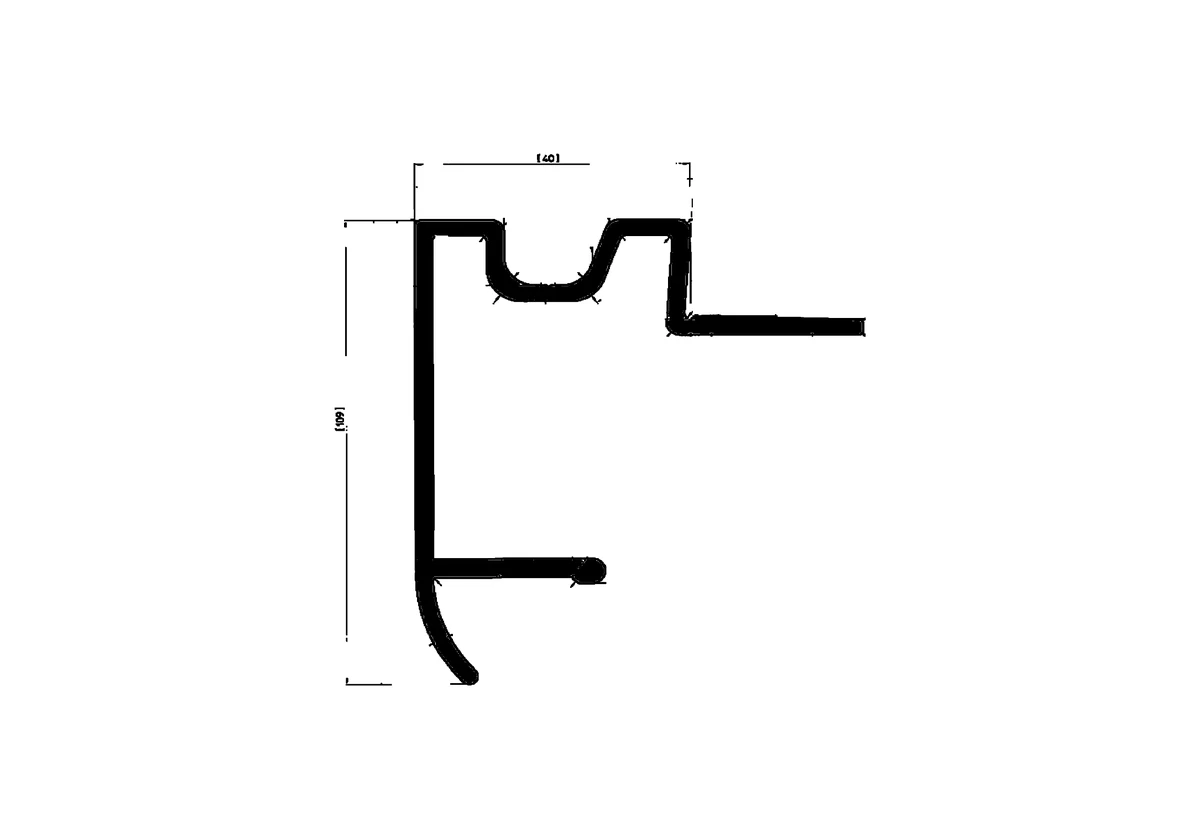
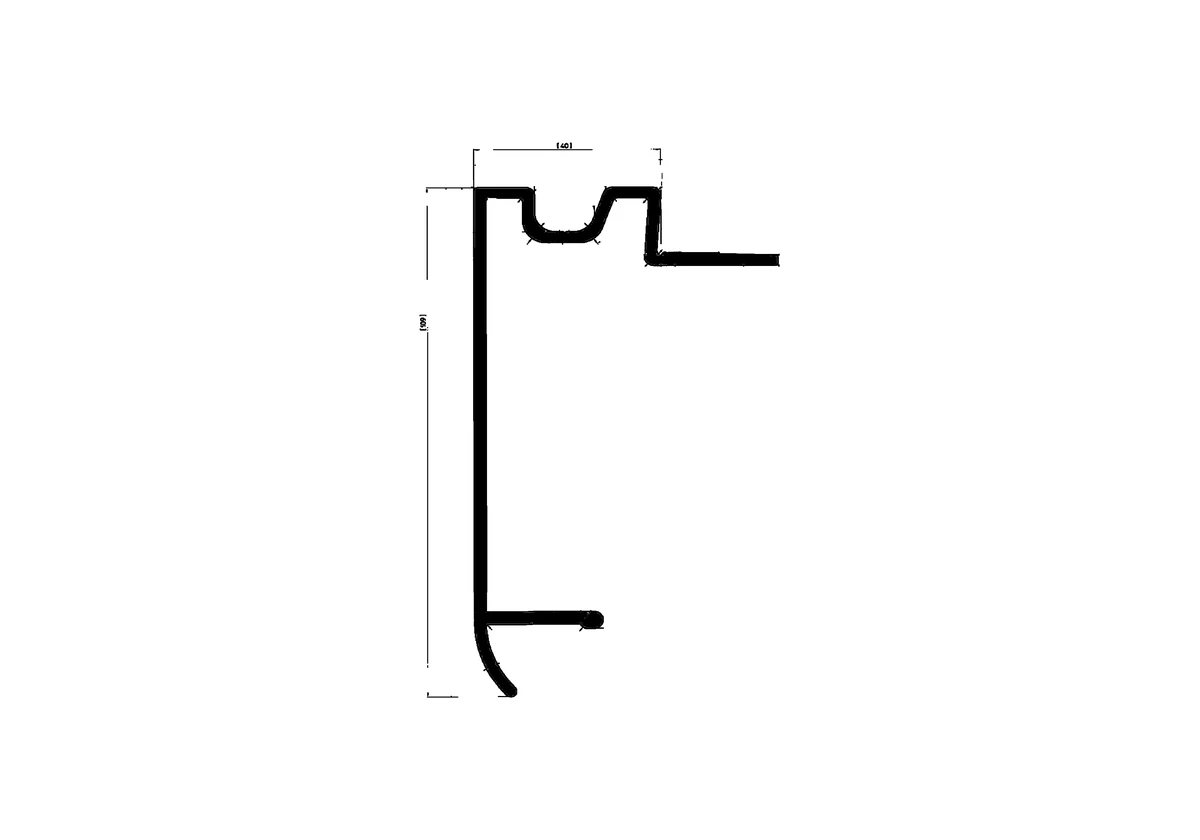
202388 rajza: a törésvonallal rövidített szár valós arányra nyújtva (40 × 109 mm)
Claude-Session: https://claude.ai/code/session_01GqcGcrqDWYvNfyrVUkczEM

Changed region(s): [[0.3083, 0.1548, 0.74, 0.8357], [0.2775, 0.4952, 0.3083, 0.5262]]

diff --git a/scripts/termekadatok/alvaz_rajzok.py b/scripts/termekadatok/alvaz_rajzok.py
@@ -46,7 +46,7 @@ PROFILES = {
     "2073902-i-90-csavarozhato-kereszttarto": ("kereszttartok", 90),
     "206441-i-gerenda-profil-80x60-50x8-6-mm": ("kereszttartok", 80),
     "2018652-18-mm-keretprofil-erositett-elox": ("keret-profilok", 126.5),
-    "202388-15-70-mm-keretprofil-elox-cd": ("keret-profilok", 100),
+    "202388-15-70-mm-keretprofil-elox-cd": ("keret-profilok", 109),
     "203004-30-mm-keretprofil-elox": ("keret-profilok", 124.5),
     "207318-keret-profil-90-18mm-elox": ("keret-profilok", 117.5),
     "203183-250-25-mm-alafutasgatlo-elox-profil": ("alafutasgatlo-profilok", 250),
@@ -59,9 +59,12 @@ PROFILES = {
 # szkennelt rajzok megszakított falvonalai: (x0, y0, x1, y1, vastagság) a forráskép képpontjaiban
 REPAIR = {
     "202387-i-70-kereszttarto": [(523, 150, 523, 530, 5), (566, 150, 566, 530, 5)],  # a gerinc törésjele
-    "202388-15-70-mm-keretprofil-elox-cd": [(165, 300, 166, 700, 4), (196, 300, 198, 700, 4),  # a hosszú szár törésjele
+    "202388-15-70-mm-keretprofil-elox-cd": [(165, 300, 166, 1218, 4), (196, 300, 198, 1218, 4),  # a hosszú szár (nyújtás után)
                                             (665, 317, 978, 319, 4)],  # a vízszintes szár szakadozott felső vonala
 }
+# törésvonallal rövidítve rajzolt profilok valós arányra nyújtása: (sor, beszúrt sorok száma) – a beszúrt
+# sorok a megadott sor másolatai; 202388: a [40] szélesség 498 px (12,45 px/mm), így a [109] magasság 1357 px
+STRETCH = {"202388-15-70-mm-keretprofil-elox-cd": (620, 518)}
 # a gerincbe lógó régi méretszám törlése (fehérrel), mielőtt a falvonalakat meghúzzuk: (x0, y0, x1, y1)
 ERASE = {"202387-i-70-kereszttarto": [(498, 222, 590, 256)]}
 # a kitöltés által eltakart méretszámok újraírása: (szöveg, x, y közép) a forráskép képpontjaiban
@@ -157,6 +160,9 @@ def main():
         if not keep.exists():
             Image.open(ROOT / "public" / src.lstrip("/")).save(keep)
         rgb = load(keep)
+        if slug in STRETCH:
+            y, n = STRETCH[slug]
+            rgb = np.concatenate([rgb[:y], np.repeat(rgb[y:y + 1], n, axis=0), rgb[y:]], axis=0)
         for x0, y0, x1, y1 in ERASE.get(slug, []):
             rgb[y0:y1, x0:x1] = 255
             rgb[257:260, x0:x1] = 0  # a méretvonal folytatása a törölt szám alatt (a 202387 méretvonala a 258. sorban)
